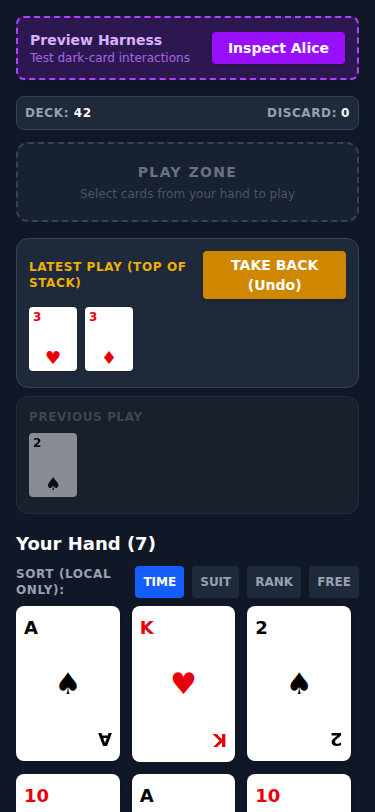
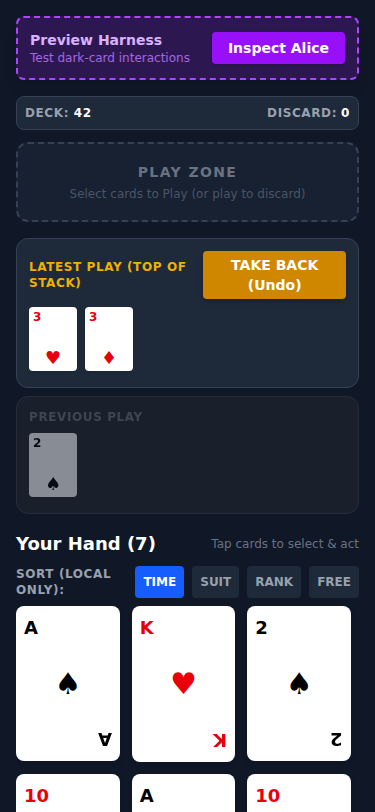
feat(client): make card action buttons explicit
Update the text on the "PLAY" and "RETURN" buttons to explicitly state the
destination (e.g., "TO TABLE", "TO DECK TOP"). Update the "DRAW" button to say
"FROM DECK". Add a placeholder hint when no cards are selected to improve
first-use discoverability without trial and error.

diff --git a/src/pages/Client.tsx b/src/pages/Client.tsx
@@ -569,13 +569,15 @@ export default function Client() {
         <div className="mb-2">
           <h2 className="text-lg font-bold flex justify-between items-center mb-2">
             <span>Your Hand ({hand.length})</span>
-            {selectedCards.length > 0 && (
+            {selectedCards.length > 0 ? (
               <button
                  onClick={() => setSelectedCards([])}
                  className="text-sm text-blue-400 bg-gray-800 px-3 py-1 rounded"
               >
                  Clear Selection
               </button>
+            ) : (
+              <span className="text-xs text-gray-500 font-normal">Tap cards to select &amp; act</span>
             )}
           </h2>
           <div className="flex gap-2">
@@ -650,7 +652,7 @@ export default function Client() {
             isDrawing ? 'bg-blue-800 scale-95 opacity-80 cursor-wait' : 'bg-blue-600 hover:bg-blue-700 active:scale-95'
           }`}
         >
-          {isDrawing ? <span>DRAWING...</span> : <span>DRAW 1</span>}
+          {isDrawing ? <span>DRAWING...</span> : <span>DRAW 1 FROM DECK</span>}
         </button>
         <span className="text-gray-500 font-bold uppercase tracking-widest text-center text-[10px] pointer-events-none">
           ↓ (OR SWIPE DOWN)
@@ -672,7 +674,7 @@ export default function Client() {
               className="w-full rounded-xl bg-green-600 px-6 py-3 text-xl font-black text-white transition-all hover:bg-green-500 active:scale-[0.98] shadow-lg mb-1 pointer-events-auto flex items-center justify-center gap-2"
             >
               <span>⬆</span>
-              <span>PLAY {selectedCards.length} CARD{selectedCards.length > 1 ? 'S' : ''}</span>
+              <span>PLAY {selectedCards.length} TO TABLE</span>
               <span>⬆</span>
             </button>
             <span className="text-green-400 font-bold uppercase tracking-widest text-center text-[10px] pointer-events-none opacity-80">
@@ -690,7 +692,7 @@ export default function Client() {
                 onClick={() => handleReturnSelected(true)}
                 className="w-full rounded-lg bg-blue-600 px-2 py-1.5 text-xs font-bold text-white transition-colors hover:bg-blue-700 active:scale-95 pointer-events-auto mb-1 flex flex-col items-center"
               >
-                <span>⏫ RETURN {selectedCards.length} TO TOP</span>
+                <span>⏫ RETURN {selectedCards.length} TO DECK TOP</span>
                 <span className="text-[9px] opacity-80 font-normal mt-0.5">(Next to be drawn)</span>
               </button>
               <span className="text-blue-400 font-bold uppercase tracking-widest text-center text-[9px] pointer-events-none">
@@ -706,7 +708,7 @@ export default function Client() {
                 onClick={() => handleReturnSelected(false)}
                 className="w-full rounded-lg bg-gray-700 px-2 py-1.5 text-xs font-bold text-white transition-colors hover:bg-gray-600 active:scale-95 pointer-events-auto mb-1 flex flex-col items-center"
               >
-                <span>⏬ RETURN {selectedCards.length} TO BOTTOM</span>
+                <span>⏬ RETURN {selectedCards.length} TO DECK BOTTOM</span>
                 <span className="text-[9px] opacity-80 font-normal mt-0.5">(Bury under deck)</span>
               </button>
               <span className="text-gray-400 font-bold uppercase tracking-widest text-center text-[9px] pointer-events-none">
